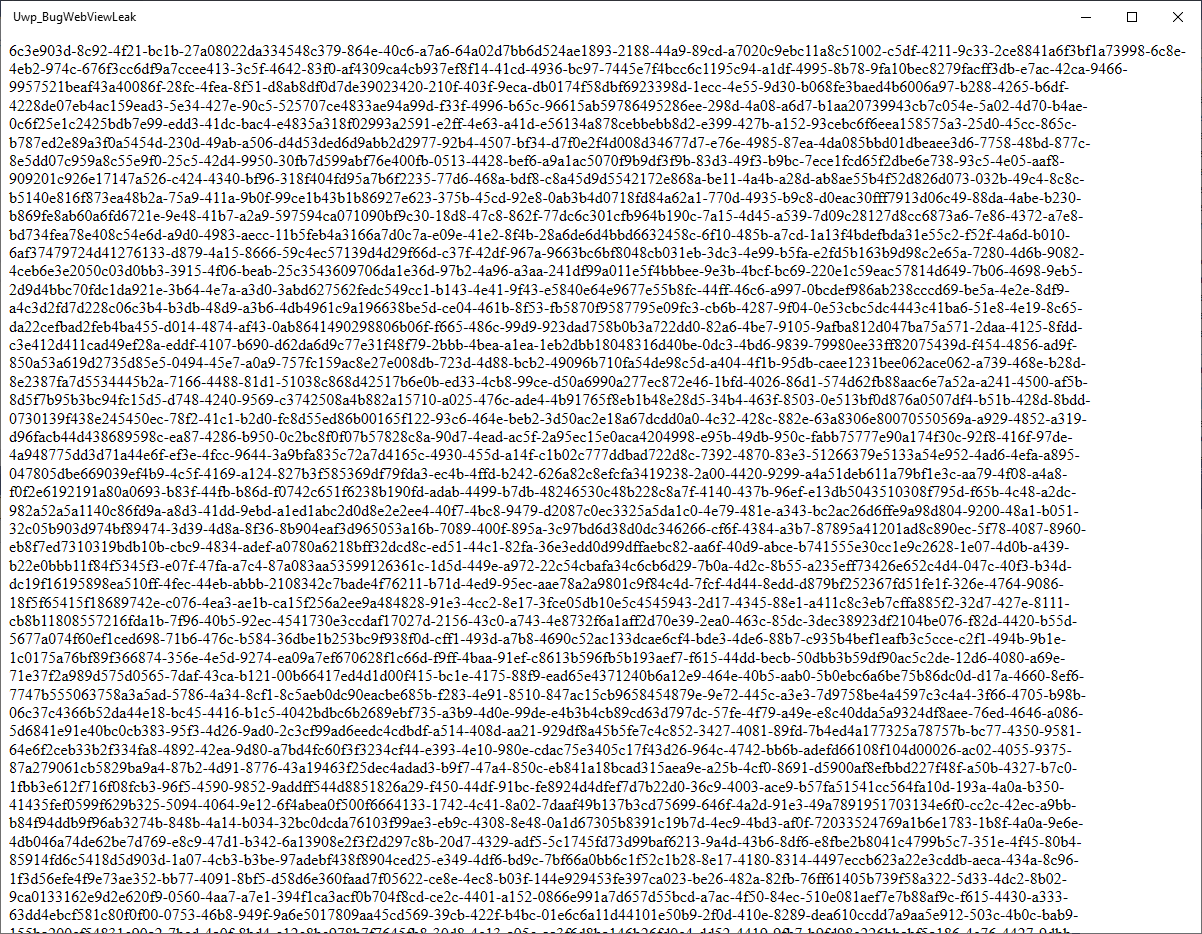
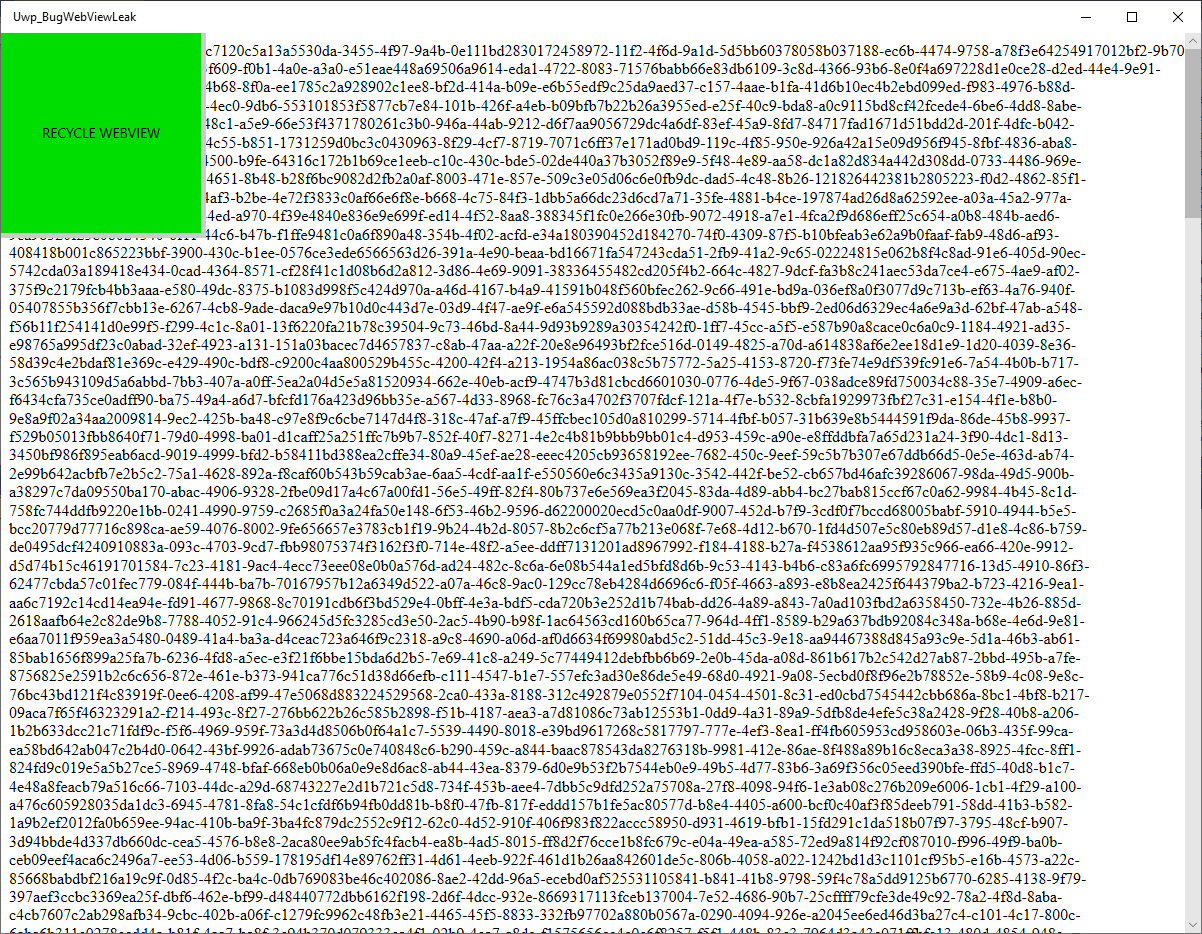
Added a button to recycle the WebView button

diff --git a/MainPage.xaml b/MainPage.xaml
@@ -8,6 +8,10 @@
     mc:Ignorable="d"
     Background="{ThemeResource ApplicationPageBackgroundThemeBrush}"
     Loaded="Page_Loaded">
-
-    <WebView Name="_mWebView" Source="ms-appx-web:///Assets/Web.html" NavigationCompleted="WebView_NavigationCompleted"/>
+    <Grid>
+        <Grid Name="_mGrid"></Grid>
+        <StackPanel Background="#CCC" Width="205" Height="205" HorizontalAlignment="Left" VerticalAlignment="Top" >
+            <Button Background="#0D0" Width="200" Height="200" Click="Button_Click">RECYCLE WEBVIEW</Button>
+        </StackPanel>
+    </Grid>
 </Page>

diff --git a/MainPage.xaml.cs b/MainPage.xaml.cs
@@ -13,6 +13,7 @@ namespace Uwp_BugWebViewLeak
     public sealed partial class MainPage : Page
     {
         private bool _mWaitForExit = true;
+        private bool _mRecycle = true;
         private bool _mSendData = false;
 
         public MainPage()
@@ -32,11 +33,37 @@ namespace Uwp_BugWebViewLeak
 
         private async Task SendData()
         {
+            WebView webView = null;
             while (_mWaitForExit)
             {
                 try
                 {
-                    if (_mSendData)
+                    if (_mRecycle)
+                    {
+                        _mRecycle = false;
+                        _mSendData = false;
+                        _mGrid.Children.Clear();
+                        if (webView != null)
+                        {
+                            _mGrid.Children.Remove(webView);
+                            webView = null;
+                            GC.Collect();
+                            await Task.Delay(2000); // Wait to see WebView disappear
+                        }
+                        webView = new WebView();
+                        webView.Source = new Uri("ms-appx-web:///Assets/Web.html");
+                        webView.NavigationCompleted += WebView_NavigationCompleted;
+                        _mGrid.Children.Add(webView);
+                    }
+                }
+                catch (Exception ex)
+                {
+                    Console.Error.WriteLine("SendData exception {0}", ex);
+                }
+
+                try
+                {
+                    if (_mSendData && webView != null)
                     {
                         string data = string.Empty;
                         for (int i = 0; i <= 1000; ++i)
@@ -45,7 +72,7 @@ namespace Uwp_BugWebViewLeak
                         }
 
                         string command = string.Format("sendFunction('{0}');", data);
-                        string result = await _mWebView.InvokeScriptAsync("eval", new string[]
+                        string result = await webView.InvokeScriptAsync("eval", new string[]
                         {
                             command
                         });
@@ -66,6 +93,11 @@ namespace Uwp_BugWebViewLeak
         {
             Window.Current.Closed += Current_Closed;
             _ = SendData();
+        }
+
+        private void Button_Click(object sender, RoutedEventArgs e)
+        {
+            _mRecycle = true;
         }
     }
 }
